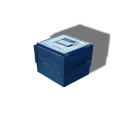
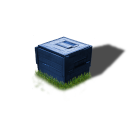
Few adjustments

Changed region(s): [[0.25, 0.1875, 1.0, 0.7188], [0.3125, 0.6875, 0.3438, 0.7188]]

diff --git a/Core/Game/game.py b/Core/Game/game.py
@@ -1,6 +1,7 @@
 import pygame
 import sys
 import os
+import math
 from Core.Game.panel import Panel
 from Core.Game.vertical_panel import VerticalPanel
 from Core.Game.object_collection import ObjectCollection
@@ -22,9 +23,21 @@ class Game:
         # Mouse state tracking
         self.is_dragging_minimap = False
         self.last_mouse_pos = None
+        self.selected_object = None  # Track the currently selected object
 
         # Define the tile size (32x32 pixels)
         self.tile_size = 32
+
+        # Selection ring properties
+        self.selection_ring_color = (255, 255, 0)  # Yellow
+        self.selection_ring_width = 2
+        self.selection_ring_radius = 20  # Base radius for small/large objects
+        self.selection_ring_huge_radius = 40  # Double radius for huge objects
+
+        # Load panel images
+        self.horizontal_left_area = pygame.image.load("Images/game_menu_horizontal_left_area.png").convert_alpha()
+        self.default_selection = pygame.image.load("Images/default_selection.png").convert_alpha()
+        self.selected_object_image = None  # Will store the selected object's image
 
         # Load and cache tile images
         self.tile_cache = {}  # Cache for tile images
@@ -229,6 +242,27 @@ class Game:
                                  self.minimap_size, self.minimap_size)
         return minimap_rect.collidepoint(pos)
 
+    def draw_selection_ring(self, center, radius, color, width):
+        """
+        Draws an elliptical ring around `center`, but split into a back‑half and front‑half
+        so you can render a sprite between them to give depth.
+        """
+        x, y = center
+        # Create a rect with different width and height for the ellipse
+        rect = pygame.Rect(x - radius, y - radius * 0.7, radius * 2, radius * 1.4)
+        
+        # Back half: from 90° to 270° (bottom part of circle)
+        pygame.draw.arc(self.screen, color, rect,
+                        math.pi/2,      # start angle (90°)
+                        3*math.pi/2,    # end angle   (270°)
+                        width)
+        
+        # Front half: from -90° to +90° (top part of circle)
+        pygame.draw.arc(self.screen, color, rect,
+                        -math.pi/2,     # start angle (-90°)
+                        math.pi/2,      # end angle   (+90°)
+                        width)
+
     def handle_events(self, event):
         if event.type == pygame.QUIT:
             pygame.quit()
@@ -258,6 +292,51 @@ class Game:
                 self.is_dragging_minimap = True
                 self.last_mouse_pos = mouse_pos
                 self.update_camera_from_minimap(mouse_pos)
+            # Check for object selection
+            elif event.button == 1:  # Left click
+                self.selected_object = None  # Clear current selection
+                self.selected_object_image = None  # Clear selected object image
+                mouse_x, mouse_y = mouse_pos
+                
+                # Convert screen coordinates to world coordinates
+                world_x = mouse_x + self.camera_x
+                world_y = mouse_y + self.camera_y
+                
+                # Check each object for selection
+                for obj in self.objects:
+                    obj_world_x = obj['x'] * self.tile_size
+                    obj_world_y = obj['y'] * self.tile_size
+                    obj_width = obj['image'].get_width()
+                    obj_height = obj['image'].get_height()
+                    
+                    # Calculate object's screen position
+                    obj_screen_x = obj_world_x - self.camera_x
+                    obj_screen_y = obj_world_y - self.camera_y
+                    
+                    # Calculate offset for centering
+                    offset = obj['offset'] - self.tile_size // 2
+                    
+                    # Create a rect for the object
+                    obj_rect = pygame.Rect(
+                        obj_screen_x - offset,
+                        obj_screen_y - offset,
+                        obj_width,
+                        obj_height
+                    )
+                    
+                    # Check if mouse is within the object's rect
+                    if obj_rect.collidepoint(mouse_x, mouse_y):
+                        self.selected_object = obj
+                        # Try to load the object's image from the Images folder
+                        try:
+                            image_path = os.path.join("Images", f"{obj['type']}{obj['id']:05d}.png")
+                            if os.path.exists(image_path):
+                                self.selected_object_image = pygame.image.load(image_path).convert_alpha()
+                            else:
+                                self.selected_object_image = self.default_selection
+                        except:
+                            self.selected_object_image = self.default_selection
+                        break
             
             # Check if vertical panel handle is clicked
             elif self.vertical_panel.is_handle_clicked(mouse_pos):
@@ -470,7 +549,7 @@ class Game:
         # Blit the visible portion of the pre-rendered map
         self.screen.blit(self.map_surface, dest_rect, source_rect)
 
-        # Render visible objects
+        # First pass: Draw all non-selected objects and back parts of selection rings
         for obj_data in self.visible_objects_cache:
             obj = obj_data['obj']
             screen_x = obj_data['screen_x']
@@ -484,8 +563,37 @@ class Game:
             obj_rect = pygame.Rect(screen_x, screen_y, obj_width, obj_height)
             self.dirty_rects.append(obj_rect)
             
+            # Draw selection ring behind the object if it's selected
+            if self.selected_object == obj:
+                # Determine ring radius based on object size
+                ring_radius = self.selection_ring_huge_radius if obj_width == 128 else self.selection_ring_radius
+                
+                # Draw back half of selection ring
+                x, y = screen_x + obj_width // 2, screen_y + obj_height // 2
+                rect = pygame.Rect(x - ring_radius, y - ring_radius * 0.7, ring_radius * 2, ring_radius * 1.4)
+                pygame.draw.arc(self.screen, self.selection_ring_color, rect,
+                              math.pi/2, 3*math.pi/2, self.selection_ring_width)
+            
             # Render the object
             self.screen.blit(obj['image'], (screen_x, screen_y))
+        
+        # Second pass: Draw front parts of selection rings for selected objects
+        for obj_data in self.visible_objects_cache:
+            obj = obj_data['obj']
+            if self.selected_object == obj:
+                screen_x = obj_data['screen_x']
+                screen_y = obj_data['screen_y']
+                obj_width = obj['image'].get_width()
+                obj_height = obj['image'].get_height()
+                
+                # Determine ring radius based on object size
+                ring_radius = self.selection_ring_huge_radius if obj_width == 128 else self.selection_ring_radius
+                
+                # Draw front half of selection ring
+                x, y = screen_x + obj_width // 2, screen_y + obj_height // 2
+                rect = pygame.Rect(x - ring_radius, y - ring_radius * 0.7, ring_radius * 2, ring_radius * 1.4)
+                pygame.draw.arc(self.screen, self.selection_ring_color, rect,
+                              -math.pi/2, math.pi/2, self.selection_ring_width)
 
         # Render the minimap
         self.update_minimap()
@@ -497,6 +605,34 @@ class Game:
         # Render the panels
         self.vertical_panel.render()
         self.panel.render()
+
+        # Render selected object image in the horizontal panel's left area
+        if self.panel_visible or self.panel.current_y < self.screen_height - self.panel.handle_height:
+            # Get the left area position from the panel
+            left_area_rect = self.panel.get_left_area_rect()
+            
+            # Adjust the y position based on the panel's current position
+            left_area_rect.y = self.panel.current_y + self.panel.margin + 5
+            
+            # Draw the selected object image or default image
+            if self.selected_object_image:
+                # Scale the image to fit the left area while maintaining aspect ratio
+                img_width, img_height = self.selected_object_image.get_size()
+                scale = min(left_area_rect.width / img_width, left_area_rect.height / img_height)
+                new_width = int(img_width * scale)
+                new_height = int(img_height * scale)
+                scaled_image = pygame.transform.scale(self.selected_object_image, (new_width, new_height))
+                
+                # Center the image in the left area
+                x = left_area_rect.x + (left_area_rect.width - new_width) // 2
+                y = left_area_rect.y + (left_area_rect.height - new_height) // 2
+                self.screen.blit(scaled_image, (x, y))
+            else:
+                # Draw the default selection image
+                self.screen.blit(self.default_selection, left_area_rect)
+            
+            # Draw the left area border on top
+            self.screen.blit(self.horizontal_left_area, left_area_rect)
 
         # Update only the dirty areas of the screen
         if self.dirty_rects:

diff --git a/Core/Game/panel.py b/Core/Game/panel.py
@@ -38,7 +38,7 @@ class Panel:
         self.middle_area_width = self.width - (self.left_area_size + self.right_area_width + (self.margin * 4))
 
         # Create surfaces for each area
-        self.left_area = pygame.image.load(os.path.join('Images', 'game_menu_vertical_left_area.png'))
+        self.left_area = pygame.image.load(os.path.join('Images', 'game_menu_horizontal_left_area.png'))
         self.left_area = pygame.transform.scale(self.left_area, (self.left_area_size, self.area_height))
         self.middle_area = pygame.Surface((self.middle_area_width, self.area_height), pygame.SRCALPHA)  # Make transparent
         self.right_area = pygame.Surface((self.right_area_width, self.area_height))
@@ -468,3 +468,12 @@ class Panel:
         if self.current_tooltip:
             tooltip_surface, tooltip_pos = self.current_tooltip
             self.screen.blit(tooltip_surface, tooltip_pos)
+
+    def get_left_area_rect(self):
+        """Returns the rectangle for the left area of the panel."""
+        return pygame.Rect(
+            self.screen.get_width() - self.width + self.margin,
+            self.screen.get_height() - self.height + self.margin,
+            self.left_area_size,
+            self.area_height
+        )
